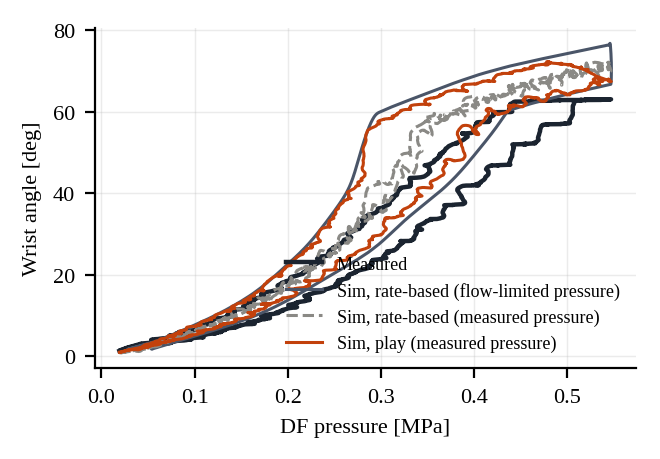
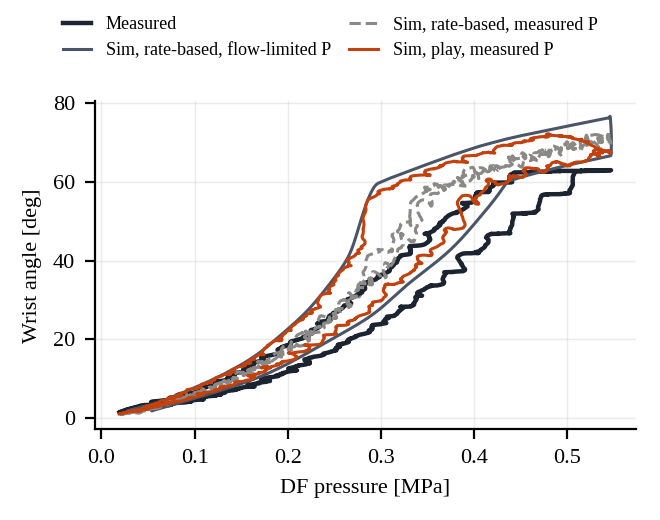
JFPSv16

diff --git a/data/user0/jfps2026/replay/static/fs_0.15_0.15_0.2/summary/static_summary.md b/data/user0/jfps2026/replay/static/fs_0.15_0.15_0.2/summary/static_summary.md
@@ -1,0 +1,31 @@
+# 静的なつり合い：実機と sim（static_compare.py）
+
+sim: `sim_id_static__measured_raw__play_w40_cp15.csv`
+
+## 区間ごとの指標（offset = sim − 実機 [deg]、slope [deg/MPa]、width [deg]）
+
+```
+ch  ant  tri  offset  slope_real  slope_sim  slope_ratio  width_real  width_sim   P_range
+DF  0.1    0    0.66      141.74     167.85         1.18       -7.60     -11.10 0.10-0.50
+DF  0.1    1   -2.66      146.56     158.79         1.08       -8.29     -20.62 0.10-0.50
+DF  0.2    0   -3.35      139.23     149.11         1.07       -5.28      -7.88 0.10-0.50
+DF  0.2    1   -3.19      136.57     149.99         1.10       -4.96      -8.64 0.10-0.50
+DF  0.3    0   -5.00      117.12     113.23         0.97       -5.72      -7.40 0.10-0.50
+DF  0.3    1   -5.17      117.47     111.13         0.95       -4.96      -6.24 0.10-0.50
+ F  0.1    0   -2.65       -3.38      -8.27         2.45        0.76       1.26 0.10-0.50
+ F  0.1    1   -1.97       -3.63      -8.59         2.37        0.35       1.51 0.10-0.50
+ F  0.2    0   -4.15       -6.46     -24.03         3.72        0.45       3.84 0.10-0.50
+ F  0.2    1   -4.07       -7.25     -24.49         3.38        0.87       4.24 0.10-0.50
+ F  0.3    0   -6.72      -13.53     -48.04         3.55        1.23       6.49 0.10-0.50
+ F  0.3    1   -6.96      -13.50     -50.08         3.71        1.27       6.84 0.10-0.50
+```
+
+## 拮抗筋の圧力によるずれ（掃引する筋 0.30 MPa、2周目）[deg]
+
+```
+ch  src  center_ant0.10  center_ant0.20  center_ant0.30  shift_0p10_to_0p30
+DF real           34.01           35.00           30.06               -3.95
+DF  sim           34.93           32.15           23.78              -11.16
+ F real            4.50           12.87           25.83               21.33
+ F  sim            1.85            8.53           19.14               17.30
+```
